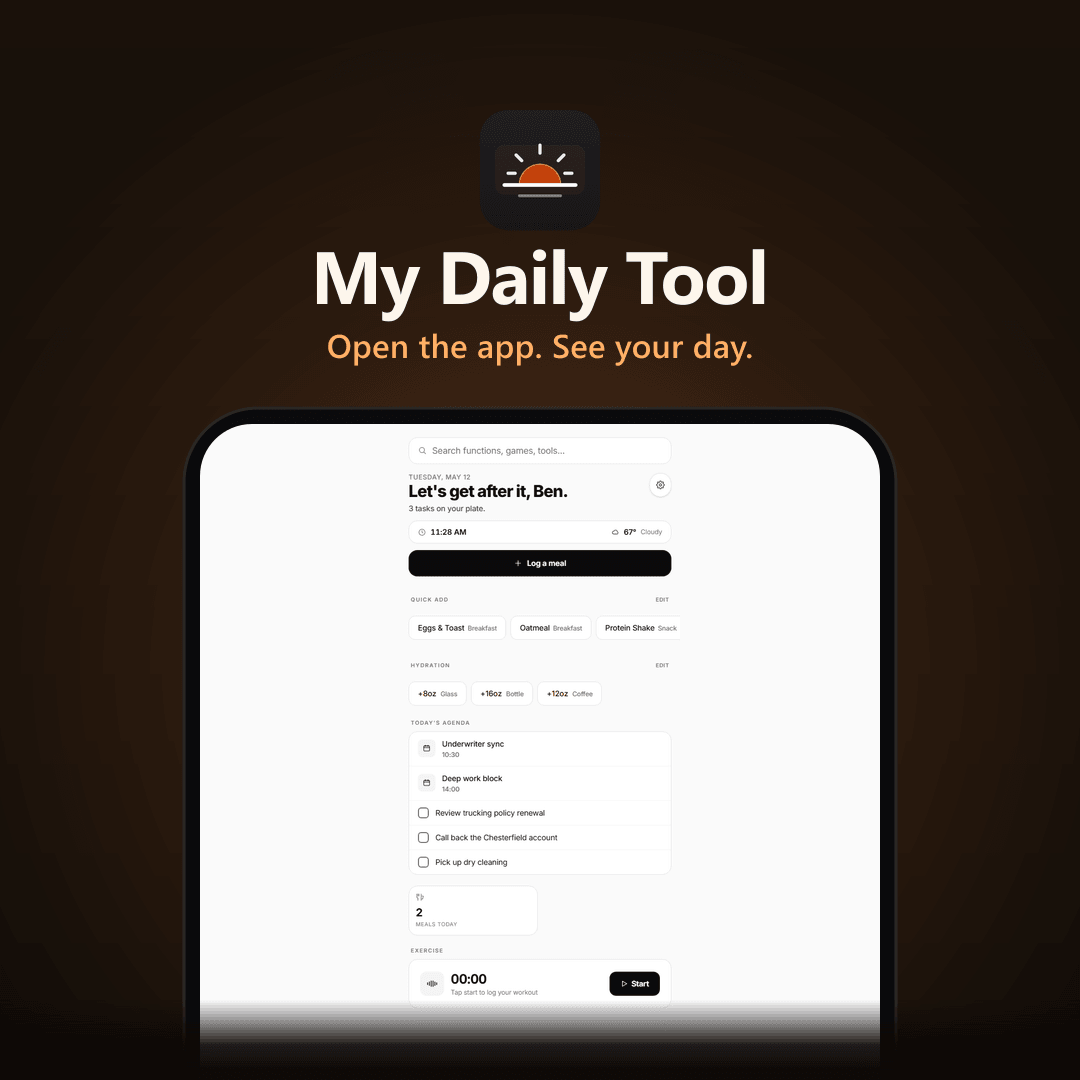
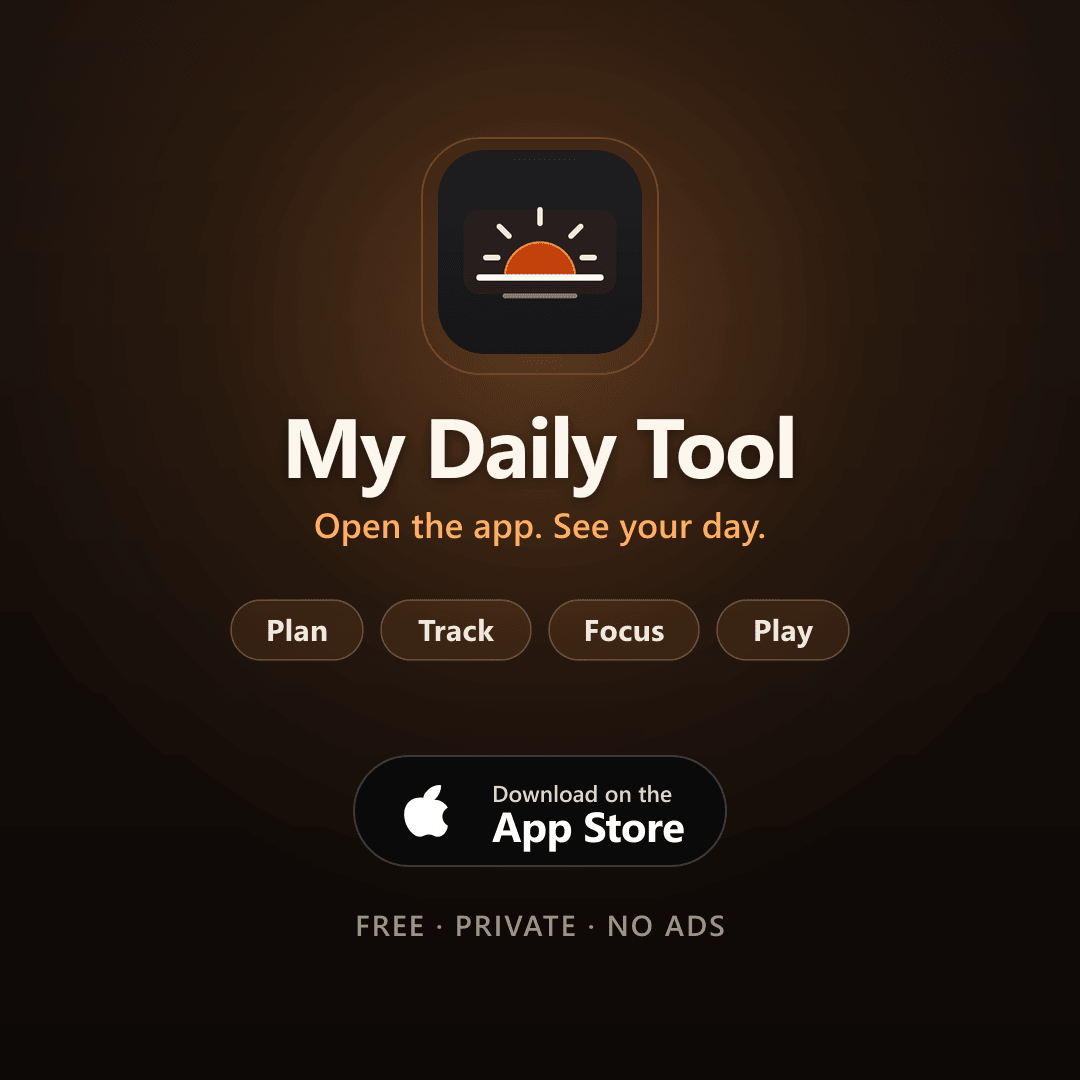
Redesign DT app tile as a clean poster + fix colliding ethos labels + warmer copy
Tile: the screenshot-in-a-frame version read as cramped (clipped title, dead
white band under the app's empty home area). Replaced with a designed 1080x1080
poster on the sunrise-dark field: real sunrise app icon with a soft gold halo,
"My Daily Tool" headline with breathing room, the "Open the app. See your day."
tagline, a Plan/Track/Focus/Play feature row, the drawn App Store badge, and a
"Free / Private / No ads" line. Cache-busted to ?v=3.

Ethos labels: .eyebrow is display:inline-flex (for hero use), so in the
<div><div class="eyebrow">Stack</div>text</div> markup the label and its
description collided on one line. Added a scoped .app-ethos .eyebrow { display:flex }
so each label sits on its own line above its text (apps.html + index.html).

Copy: softened the "Why It Matters" / Stack / Cadence lines to read as
approachable rather than self-aggrandizing. Also killed a leftover cream
background tint on the MDT visual (off-brand; DT bans beige).

diff --git a/index.html b/index.html
@@ -162,7 +162,7 @@
       "url": "https://apps.apple.com/us/app/my-daily-tool/id6766240912",
       "downloadUrl": "https://apps.apple.com/us/app/my-daily-tool/id6766240912",
       "installUrl": "https://apps.apple.com/us/app/my-daily-tool/id6766240912",
-      "image": "https://bensachwitz.vercel.app/images/app-mydailytool.png?v=2",
+      "image": "https://bensachwitz.vercel.app/images/app-mydailytool.png?v=3",
       "description": "Open the app. See your day. Weather, agenda, habits, calories and a daily challenge. One screen, no scrolling. Built and shipped by Benjamin Sachwitz.",
       "author": { "@id": "https://bensachwitz.vercel.app/#person" },
       "offers": { "@type": "Offer", "price": "0", "priceCurrency": "USD" },
@@ -1218,7 +1218,7 @@
       <!-- App card: My Daily Tool -->
       <article class="app-card reveal d2">
         <a href="https://apps.apple.com/us/app/my-daily-tool/id6766240912" target="_blank" rel="noopener noreferrer" aria-label="My Daily Tool · download on the App Store" class="app-visual app-visual-mdt">
-          <img src="images/app-mydailytool.png?v=2" alt="My Daily Tool: 'Open the app. See your day.' Weather, agenda, habits, calories on one screen." loading="lazy" decoding="async" />
+          <img src="images/app-mydailytool.png?v=3" alt="My Daily Tool: 'Open the app. See your day.' Weather, agenda, habits, calories on one screen." loading="lazy" decoding="async" />
           <span class="app-platform-pill"><svg width="11" height="13" viewBox="0 0 17 21" fill="currentColor" aria-hidden="true"><path d="M13.6 11.2c0-2 1.6-3 1.7-3-1-1.4-2.4-1.6-3-1.6-1.3-.1-2.5.8-3.1.8-.7 0-1.6-.8-2.7-.8-1.4 0-2.7.8-3.4 2.1-1.5 2.5-.4 6.3 1 8.3.7 1 1.5 2.1 2.6 2.1 1 0 1.5-.7 2.7-.7 1.3 0 1.6.7 2.7.7 1.1 0 1.8-1 2.6-2 .8-1.2 1.1-2.3 1.1-2.4 0 0-2.2-.8-2.2-3.5zM11.5 5.2c.6-.7 1-1.7.9-2.7-.9 0-1.9.6-2.5 1.3-.6.6-1 1.6-.9 2.6 1 .1 2-.5 2.5-1.2z"/></svg>iOS · App Store</span>
         </a>
         <div class="app-meta">
@@ -1257,10 +1257,10 @@
     </div>
 
     <!-- Builder ethos footer -->
-    <div class="mt-12 md:mt-16 pt-8 border-t border-bone/10 grid grid-cols-1 md:grid-cols-3 gap-6 text-[13px] text-bone/60 reveal d3">
-      <div><div class="eyebrow text-gold mb-2">Stack</div>Swift · SwiftUI · Capacitor · Vercel serverless · Resend · TypeScript. Active production deployments.</div>
-      <div><div class="eyebrow text-gold mb-2">Cadence</div>Focused iteration and testing. Both apps are live and actively maintained in public.</div>
-      <div><div class="eyebrow text-gold mb-2">Why It Matters</div>The instinct that ships software ships <em class="text-gold-3 italic">technical underwriting</em>. Systems, not stopgaps.</div>
+    <div class="app-ethos mt-12 md:mt-16 pt-8 border-t border-bone/10 grid grid-cols-1 md:grid-cols-3 gap-6 text-[13px] text-bone/60 reveal d3">
+      <div><div class="eyebrow text-gold mb-2">Stack</div>Swift · SwiftUI · Capacitor · Vercel serverless · Resend · TypeScript. Shipped to the App Store and the web.</div>
+      <div><div class="eyebrow text-gold mb-2">Cadence</div>Steady iteration and testing. Both apps are live and looked after in the open.</div>
+      <div><div class="eyebrow text-gold mb-2">Why It Matters</div>Building the apps and doing the <em class="text-gold-3 italic">underwriting</em> reward the same habit: clear systems over quick fixes.</div>
     </div>
 
   </div>

diff --git a/apps.html b/apps.html
@@ -163,7 +163,7 @@
       "url": "https://apps.apple.com/us/app/my-daily-tool/id6766240912",
       "downloadUrl": "https://apps.apple.com/us/app/my-daily-tool/id6766240912",
       "installUrl": "https://apps.apple.com/us/app/my-daily-tool/id6766240912",
-      "image": "https://bensachwitz.vercel.app/images/app-mydailytool.png?v=2",
+      "image": "https://bensachwitz.vercel.app/images/app-mydailytool.png?v=3",
       "description": "Open the app. See your day. Weather, agenda, habits, calories and a daily challenge. One screen, no scrolling. Built and shipped by Benjamin Sachwitz.",
       "author": { "@id": "https://bensachwitz.vercel.app/#person" },
       "offers": { "@type": "Offer", "price": "0", "priceCurrency": "USD" },
@@ -418,7 +418,7 @@
       <!-- App card: My Daily Tool -->
       <article class="app-card reveal d2">
         <a href="https://apps.apple.com/us/app/my-daily-tool/id6766240912" target="_blank" rel="noopener noreferrer" aria-label="My Daily Tool · download on the App Store" class="app-visual app-visual-mdt">
-          <img src="images/app-mydailytool.png?v=2" alt="My Daily Tool: 'Open the app. See your day.' Weather, agenda, habits, calories on one screen." loading="lazy" decoding="async" />
+          <img src="images/app-mydailytool.png?v=3" alt="My Daily Tool: 'Open the app. See your day.' Weather, agenda, habits, calories on one screen." loading="lazy" decoding="async" />
           <span class="app-platform-pill"><svg width="11" height="13" viewBox="0 0 17 21" fill="currentColor" aria-hidden="true"><path d="M13.6 11.2c0-2 1.6-3 1.7-3-1-1.4-2.4-1.6-3-1.6-1.3-.1-2.5.8-3.1.8-.7 0-1.6-.8-2.7-.8-1.4 0-2.7.8-3.4 2.1-1.5 2.5-.4 6.3 1 8.3.7 1 1.5 2.1 2.6 2.1 1 0 1.5-.7 2.7-.7 1.3 0 1.6.7 2.7.7 1.1 0 1.8-1 2.6-2 .8-1.2 1.1-2.3 1.1-2.4 0 0-2.2-.8-2.2-3.5zM11.5 5.2c.6-.7 1-1.7.9-2.7-.9 0-1.9.6-2.5 1.3-.6.6-1 1.6-.9 2.6 1 .1 2-.5 2.5-1.2z"/></svg>iOS · App Store</span>
         </a>
         <div class="app-meta">
@@ -457,10 +457,10 @@
     </div>
 
     <!-- Builder ethos footer -->
-    <div class="mt-12 md:mt-16 pt-8 border-t border-bone/10 grid grid-cols-1 md:grid-cols-3 gap-6 text-[13px] text-bone/60 reveal d3">
-      <div><div class="eyebrow text-gold mb-2">Stack</div>Swift · SwiftUI · Capacitor · Vercel serverless · Resend · TypeScript. Active production deployments.</div>
-      <div><div class="eyebrow text-gold mb-2">Cadence</div>Focused iteration and testing. Both apps are live and actively maintained in public.</div>
-      <div><div class="eyebrow text-gold mb-2">Why It Matters</div>The instinct that ships software ships <em class="text-gold-3 italic">technical underwriting</em>. Systems, not stopgaps.</div>
+    <div class="app-ethos mt-12 md:mt-16 pt-8 border-t border-bone/10 grid grid-cols-1 md:grid-cols-3 gap-6 text-[13px] text-bone/60 reveal d3">
+      <div><div class="eyebrow text-gold mb-2">Stack</div>Swift · SwiftUI · Capacitor · Vercel serverless · Resend · TypeScript. Shipped to the App Store and the web.</div>
+      <div><div class="eyebrow text-gold mb-2">Cadence</div>Steady iteration and testing. Both apps are live and looked after in the open.</div>
+      <div><div class="eyebrow text-gold mb-2">Why It Matters</div>Building the apps and doing the <em class="text-gold-3 italic">underwriting</em> reward the same habit: clear systems over quick fixes.</div>
     </div>
 
   </div>

diff --git a/styles.css b/styles.css
@@ -56,6 +56,10 @@
     transition: width .3s cubic-bezier(.2,.7,.2,1), opacity .3s;
   }
   .eyebrow:hover::before { width: 28px; opacity: 1; }
+  /* Ethos footer: the eyebrow is a label ABOVE its description, so it must be
+     block-level here (the global .eyebrow is inline-flex for hero use). Without
+     this the inline-flex label and the following text collide on one line. */
+  .app-ethos .eyebrow { display: flex; margin-bottom: .5rem; }
 
   /* Reveal */
   .reveal { opacity: 0; transform: translateY(20px); transition: opacity 0.55s cubic-bezier(.2,.7,.2,1), transform 0.55s cubic-bezier(.2,.7,.2,1); animation: revealFailsafe 0s linear 0.4s forwards; }
@@ -3358,7 +3362,7 @@
   /* Ensure no visual gap shows light section bg if the image has alpha edges */
   .app-visual { background-color: var(--ink); }
   .app-visual.app-visual-bcg { background-color: #ebe4cf; }
-  .app-visual.app-visual-mdt { background-color: #ede8db; }
+  .app-visual.app-visual-mdt { background-color: #120d0a; }
   .app-card.reveal { transform: translateY(28px) rotateX(8deg); }
   .app-card.reveal.in { transform: translateY(0) rotateX(0); }
 
@@ -3390,7 +3394,7 @@
   .app-card:hover .app-visual img { transform: scale(1.03); }
   /* Aesthetic tints per app - match their visual identity */
   .app-visual-bcg { background: #ebe4cf; }
-  .app-visual-mdt { background: #ede8db; }
+  .app-visual-mdt { background: #120d0a; }
   /* Subtle gradient overlay on hover for depth */
   .app-visual::after {
     content: ""; position: absolute; inset: 0; pointer-events: none;

diff --git a/404.html b/404.html
@@ -161,7 +161,7 @@
       "url": "https://apps.apple.com/us/app/my-daily-tool/id6766240912",
       "downloadUrl": "https://apps.apple.com/us/app/my-daily-tool/id6766240912",
       "installUrl": "https://apps.apple.com/us/app/my-daily-tool/id6766240912",
-      "image": "https://bensachwitz.vercel.app/images/app-mydailytool.png?v=2",
+      "image": "https://bensachwitz.vercel.app/images/app-mydailytool.png?v=3",
       "description": "Open the app. See your day. Weather, agenda, habits, calories and a daily challenge. One screen, no scrolling. Built and shipped by Benjamin Sachwitz.",
       "author": { "@id": "https://bensachwitz.vercel.app/#person" },
       "offers": { "@type": "Offer", "price": "0", "priceCurrency": "USD" },

diff --git a/arcade.html b/arcade.html
@@ -163,7 +163,7 @@
       "url": "https://apps.apple.com/us/app/my-daily-tool/id6766240912",
       "downloadUrl": "https://apps.apple.com/us/app/my-daily-tool/id6766240912",
       "installUrl": "https://apps.apple.com/us/app/my-daily-tool/id6766240912",
-      "image": "https://bensachwitz.vercel.app/images/app-mydailytool.png?v=2",
+      "image": "https://bensachwitz.vercel.app/images/app-mydailytool.png?v=3",
       "description": "Open the app. See your day. Weather, agenda, habits, calories and a daily challenge. One screen, no scrolling. Built and shipped by Benjamin Sachwitz.",
       "author": { "@id": "https://bensachwitz.vercel.app/#person" },
       "offers": { "@type": "Offer", "price": "0", "priceCurrency": "USD" },

diff --git a/booking.html b/booking.html
@@ -163,7 +163,7 @@
       "url": "https://apps.apple.com/us/app/my-daily-tool/id6766240912",
       "downloadUrl": "https://apps.apple.com/us/app/my-daily-tool/id6766240912",
       "installUrl": "https://apps.apple.com/us/app/my-daily-tool/id6766240912",
-      "image": "https://bensachwitz.vercel.app/images/app-mydailytool.png?v=2",
+      "image": "https://bensachwitz.vercel.app/images/app-mydailytool.png?v=3",
       "description": "Open the app. See your day. Weather, agenda, habits, calories and a daily challenge. One screen, no scrolling. Built and shipped by Benjamin Sachwitz.",
       "author": { "@id": "https://bensachwitz.vercel.app/#person" },
       "offers": { "@type": "Offer", "price": "0", "priceCurrency": "USD" },

diff --git a/career.html b/career.html
@@ -163,7 +163,7 @@
       "url": "https://apps.apple.com/us/app/my-daily-tool/id6766240912",
       "downloadUrl": "https://apps.apple.com/us/app/my-daily-tool/id6766240912",
       "installUrl": "https://apps.apple.com/us/app/my-daily-tool/id6766240912",
-      "image": "https://bensachwitz.vercel.app/images/app-mydailytool.png?v=2",
+      "image": "https://bensachwitz.vercel.app/images/app-mydailytool.png?v=3",
       "description": "Open the app. See your day. Weather, agenda, habits, calories and a daily challenge. One screen, no scrolling. Built and shipped by Benjamin Sachwitz.",
       "author": { "@id": "https://bensachwitz.vercel.app/#person" },
       "offers": { "@type": "Offer", "price": "0", "priceCurrency": "USD" },

diff --git a/projects.html b/projects.html
@@ -163,7 +163,7 @@
       "url": "https://apps.apple.com/us/app/my-daily-tool/id6766240912",
       "downloadUrl": "https://apps.apple.com/us/app/my-daily-tool/id6766240912",
       "installUrl": "https://apps.apple.com/us/app/my-daily-tool/id6766240912",
-      "image": "https://bensachwitz.vercel.app/images/app-mydailytool.png?v=2",
+      "image": "https://bensachwitz.vercel.app/images/app-mydailytool.png?v=3",
       "description": "Open the app. See your day. Weather, agenda, habits, calories and a daily challenge. One screen, no scrolling. Built and shipped by Benjamin Sachwitz.",
       "author": { "@id": "https://bensachwitz.vercel.app/#person" },
       "offers": { "@type": "Offer", "price": "0", "priceCurrency": "USD" },
